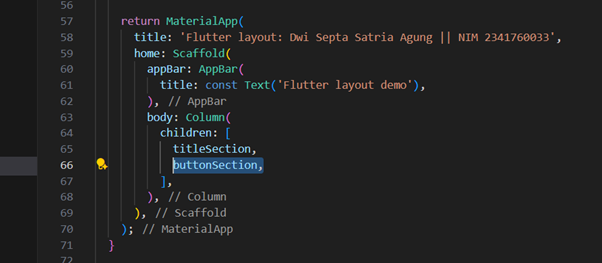
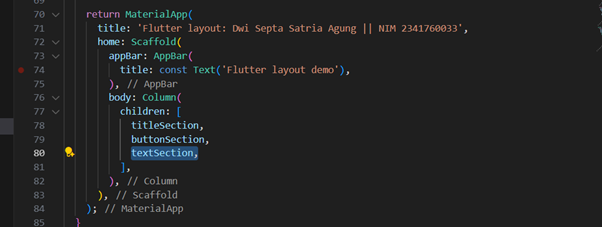
upload readme

diff --git a/README.md b/README.md
@@ -1,16 +1,128 @@
-# layout_flutter
+# Laporan Praktikum Pemrograman Mobile - Pertemuan 5
 
-A new Flutter project.
+<div align="center">
 
-## Getting Started
+**PERTEMUAN-5 LAYOUT & NAVIGASI**
 
-This project is a starting point for a Flutter application.
+</div>
 
-A few resources to get you started if this is your first Flutter project:
+---
 
-- [Lab: Write your first Flutter app](https://docs.flutter.dev/get-started/codelab)
-- [Cookbook: Useful Flutter samples](https://docs.flutter.dev/cookbook)
+**Disusun Oleh:**
 
-For help getting started with Flutter development, view the
-[online documentation](https://docs.flutter.dev/), which offers tutorials,
-samples, guidance on mobile development, and a full API reference.
+-   [cite_start]**Nama:** DWI SEPTA SATRIA AGUNG [cite: 5]
+-   [cite_start]**NIM:** 2341760033 [cite: 6]
+-   [cite_start]**Program Studi:** D-IV SISTEM INFORMASI BISNIS [cite: 7]
+-   [cite_start]**Jurusan:** TEKNOLOGI INFORMASI [cite: 8]
+-   [cite_start]**Politeknik:** POLITEKNIK NEGERI MALANG [cite: 9]
+-   [cite_start]**Tahun:** 2025 [cite: 11]
+
+---
+
+## Tujuan Praktikum
+
+Setelah menyelesaikan codelab ini, praktikan mampu untuk:
+* Memahami cara kerja mekanisme tata letak Flutter.
+* Menata widget secara vertikal dan horizontal.
+* Membuat tata letak Flutter.
+
+---
+
+## Praktikum 1: Membangun Layout di Flutter
+
+### Langkah 1-2: Buat Project Baru & Modifikasi `main.dart`
+
+[cite_start]Membuat project baru dengan nama `layout_flutter`[cite: 14]. File `lib/main.dart` kemudian dimodifikasi untuk menambahkan Nama dan NIM pada `title`[cite: 15, 16].
+
+![Modifikasi main.dart](images/gambar01.png)
+[cite_start]*Gambar 1: Kode awal main.dart.* 
+
+### Langkah 4: Implementasi `titleSection`
+
+[cite_start]Mengimplementasikan `titleSection` sebagai variabel `Widget` di dalam method `build()`[cite: 20, 21].
+
+![Implementasi Title Section](images/gambar02.png)
+[cite_start]*Gambar 2: Kode implementasi titleSection.* 
+
+---
+
+## Praktikum 2: Implementasi button row
+
+### Langkah 1: Buat method `_buildButtonColumn`
+
+[cite_start]Membuat method helper `_buildButtonColumn` untuk membangun satu kolom yang berisi ikon dan teks[cite: 24, 27, 28].
+
+![Method _buildButtonColumn](images/gambar03.png)
+[cite_start]*Gambar 3: Kode method helper _buildButtonColumn.* 
+
+### Langkah 2: Buat widget `buttonSection`
+
+Membuat widget `buttonSection` yang berisi `Row` dengan 3 kolom tombol (CALL, ROUTE, SHARE) menggunakan method `_buildButtonColumn`[cite: 29, 31, 32, 34].
+
+![Widget buttonSection](images/gambar04.png)
+*Gambar 4: Kode implementasi buttonSection.* 
+
+### Langkah 3: Tambah `buttonSection` ke `body`
+
+Menambahkan variabel `buttonSection` ke dalam `children` dari `Column` di `body`[cite: 35, 36].
+
+![Tambah buttonSection ke body](images/gambar05.png)
+*Gambar 5: Menambahkan buttonSection ke body.* 
+
+---
+
+## Praktikum 3: Implementasi text section
+
+### Langkah 1: Buat widget `textSection`
+
+Membuat variabel `textSection` yang berisi `Container` dengan `padding` dan widget `Text`[cite: 39, 40, 41].
+
+![Widget textSection](images/gambar06.png)
+*Gambar 6: Kode implementasi textSection.* 
+
+### Langkah 2: Tambahkan `textSection` ke `body`
+
+Menambahkan variabel `textSection` ke dalam `children` dari `Column` di `body`[cite: 42, 43].
+
+![Tambah textSection ke body](images/gambar07.png)
+*Gambar 7: Menambahkan textSection ke body.* 
+
+---
+
+## Praktikum 4: Implementasi image section
+
+### Langkah 1: Siapkan aset gambar
+
+Membuat folder `images` dan mendaftarkan aset gambar di file `pubspec.yaml`[cite: 47, 48].
+
+![File pubspec.yaml](images/gambar08.png)
+*Gambar 8: Mendaftarkan aset gambar di pubspec.yaml.* 
+
+### Langkah 2: Tambahkan gambar ke `body`
+
+Menambahkan `Image.asset` ke dalam `children` dari `Column` di `body`, di atas `titleSection`[cite: 49, 50].
+
+![Menambah Image.asset](images/gambar09.png)
+*Gambar 9: Menambahkan widget Image.asset ke body.* 
+
+### Langkah 3: Ubah menjadi `ListView`
+
+Mengganti widget `Column` pada `body` menjadi `ListView` agar konten aplikasi dapat di-*scroll*[cite: 52, 53].
+
+![Kode ListView](images/gambar10.png)
+*Gambar 10: Mengganti Column dengan ListView.* 
+
+---
+
+## Hasil Akhir Praktikum
+
+Tampilan akhir aplikasi setelah semua *section* (image, title, button, text) digabungkan di dalam `ListView`.
+
+![Hasil Akhir Aplikasi](images/gambar11.png)
+*Gambar 11: Tampilan akhir aplikasi layout.* 
+
+---
+
+## Link Repository GitHub
+
+-   [cite_start][septasatria20/layout_flutter](https://github.com/septasatria20/layout_flutter) [cite: 54]
